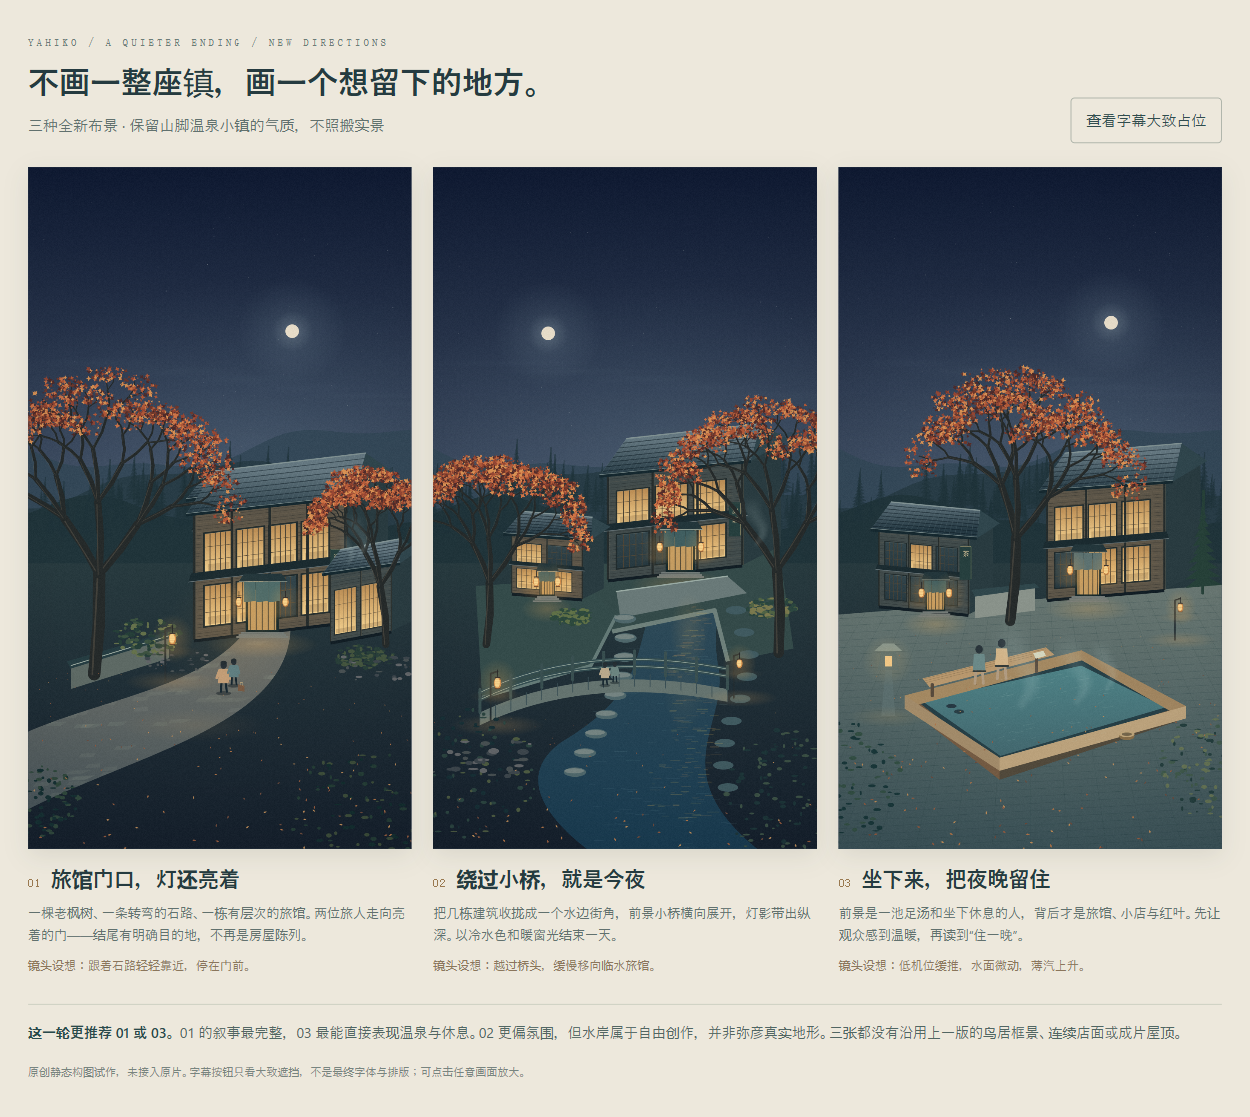
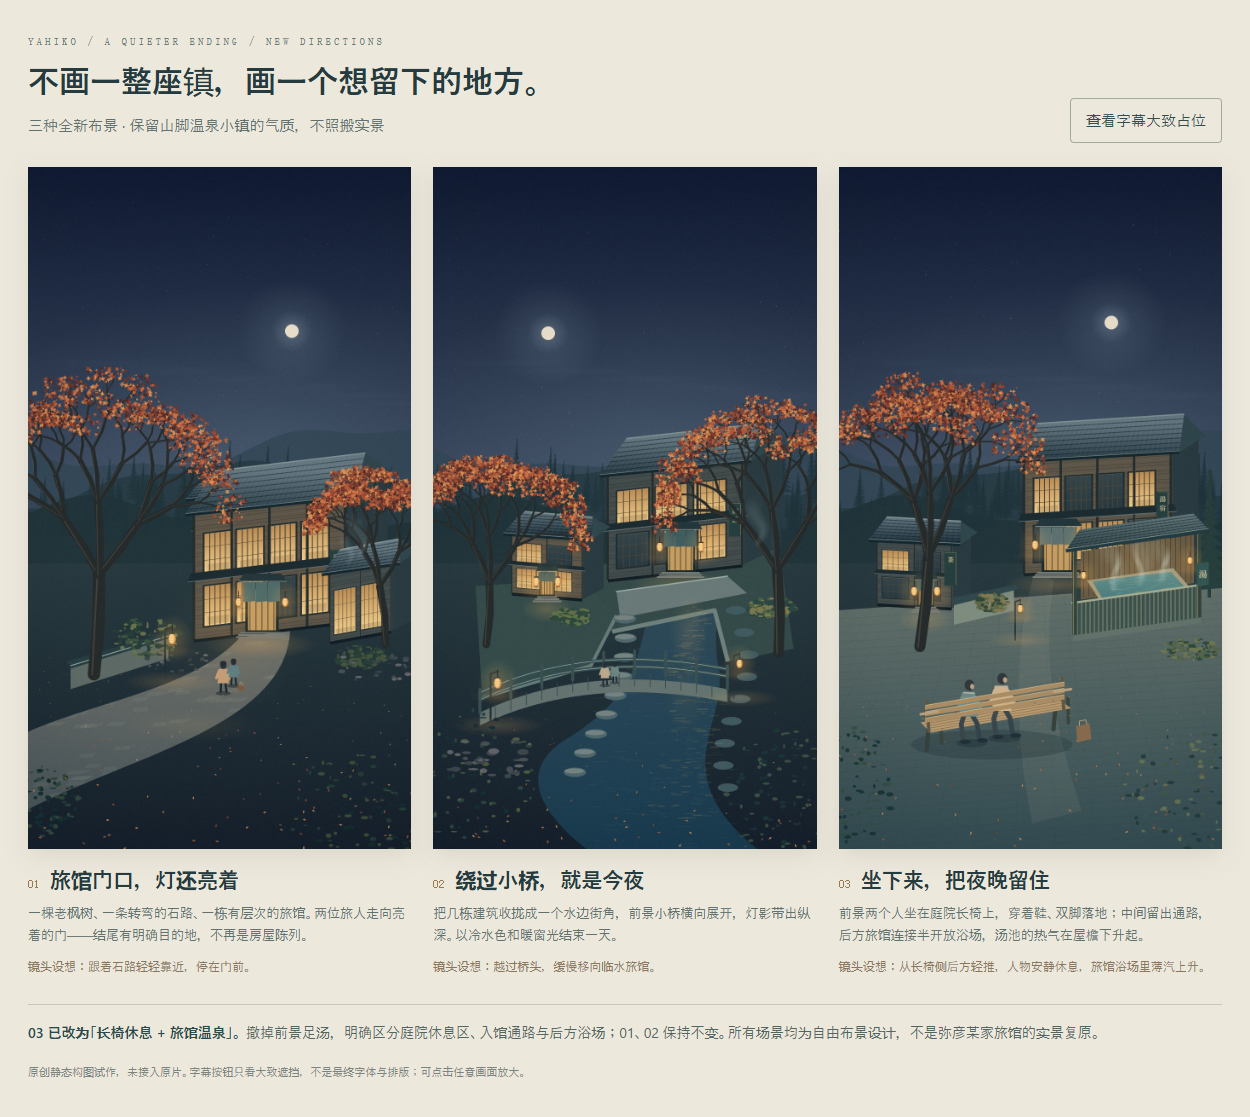
Revise concept 3 with dry garden seating and a steaming bath inside the inn wing

diff --git a/stories/yahiko-town-reimagined/index.html b/stories/yahiko-town-reimagined/index.html
@@ -1,1 +1,1 @@
-<!doctype html><html lang="zh-CN"><head><meta charset="utf-8"><meta name="viewport" content="width=device-width,initial-scale=1"><title>弥彦小镇 · 重新想象最后一晚</title><style>*{box-sizing:border-box}body{margin:0;background:#ede8dc;color:#253b40;font:15px/1.7 system-ui,"Microsoft YaHei",sans-serif}main{max-width:1250px;margin:auto;padding:35px 28px}header{display:flex;justify-content:space-between;align-items:end;gap:22px;margin-bottom:24px}.eyebrow{font:11px monospace;letter-spacing:3px;color:#6c7c78}h1{font-size:31px;font-weight:500;margin:7px 0 4px}p{margin:5px 0;color:#61716e}button{font:inherit;border:1px solid #a2aaa0;border-radius:4px;background:transparent;color:#304d4f;cursor:pointer;padding:9px 15px}button[aria-pressed=true]{background:#304d4f;color:#fff9e9}.grid{display:grid;grid-template-columns:repeat(3,minmax(0,1fr));gap:22px}.art{position:relative;display:block;overflow:hidden;box-shadow:0 7px 24px #20312c19;cursor:zoom-in}canvas{display:block;width:100%;height:auto;aspect-ratio:9/16;background:#172941}.words{display:none;position:absolute;inset:0;pointer-events:none;color:#f8ead1;text-shadow:0 2px 8px #0e1a28}.copy .words{display:block}.words .title{position:absolute;left:7.4%;top:12.4%;font-size:clamp(19px,2.8vw,35px);font-weight:600;letter-spacing:3px}.words .narr{position:absolute;left:9.4%;top:23.7%;font-size:clamp(9px,1.05vw,13px);border-left:2px solid #d5b789;padding-left:6px}.words .end{position:absolute;left:7.4%;top:51.5%;font-size:clamp(12px,1.6vw,20px);line-height:1.6}.words .small{position:absolute;left:9.4%;top:61.3%;font-size:clamp(9px,1vw,12px);color:#f4cb91}h2{font-weight:550;font-size:21px;margin:13px 0 3px}.num{font:12px monospace;color:#9a7950;margin-right:10px}.card p{font-size:13px}.motion{font-size:12px;color:#8b765b;margin-top:9px}.note{border-top:1px solid #c5c9bc;margin-top:28px;padding-top:16px;max-width:100%;font-size:14px;color:#516663}.note strong{color:#294a4b}footer{margin-top:18px;font-size:11px;color:#788580}dialog{border:0;padding:0;background:#112030;max-height:94vh;max-width:96vw}dialog::backdrop{background:#0b1529d9}dialog canvas{height:90vh;width:auto;max-width:90vw;object-fit:contain}dialog button{position:absolute;right:10px;top:10px;border:1px solid #b9c0b9;background:#122733bb;color:#fff;font-size:19px;padding:2px 10px}@media(max-width:760px){main{padding:23px 18px}header{display:block}header button{margin-top:10px}h1{font-size:26px}.grid{grid-template-columns:1fr;gap:28px}.words .title{font-size:36px}.words .narr{font-size:13px}.words .end{font-size:20px}.words .small{font-size:12px}}button:focus-visible,.art:focus-visible{outline:3px solid #b68546;outline-offset:4px}</style></head><body><main><header><div><div class="eyebrow">YAHIKO / A QUIETER ENDING / NEW DIRECTIONS</div><h1>不画一整座镇，画一个想留下的地方。</h1><p>三种全新布景 · 保留山脚温泉小镇的气质，不照搬实景</p></div><button id="copy" aria-pressed="false">查看字幕大致占位</button></header><section class="grid"><article class="card"><div class="art" tabindex="0" role="button" aria-label="放大方案一 旅馆门口"><canvas data-concept="1" aria-label="秋夜的旅馆与弯曲石路，两位旅人走向暖灯下的入口"></canvas></div><h2><span class="num">01</span>旅馆门口，灯还亮着</h2><p>一棵老枫树、一条转弯的石路、一栋有层次的旅馆。两位旅人走向亮着的门——结尾有明确目的地，不再是房屋陈列。</p><div class="motion">镜头设想：跟着石路轻轻靠近，停在门前。</div></article><article class="card"><div class="art" tabindex="0" role="button" aria-label="放大方案二 水边街角"><canvas data-concept="2" aria-label="小桥、水边旅馆与暖灯倒影构成的秋夜街角"></canvas></div><h2><span class="num">02</span>绕过小桥，就是今夜</h2><p>把几栋建筑收拢成一个水边街角，前景小桥横向展开，灯影带出纵深。以冷水色和暖窗光结束一天。</p><div class="motion">镜头设想：越过桥头，缓慢移向临水旅馆。</div></article><article class="card"><div class="art" tabindex="0" role="button" aria-label="放大方案三 足汤庭院"><canvas data-concept="3" aria-label="两位旅人坐在足汤边，庭院后的旅馆与店铺亮着灯"></canvas></div><h2><span class="num">03</span>坐下来，把夜晚留住</h2><p>前景是一池足汤和坐下休息的人，背后才是旅馆、小店与红叶。先让观众感到温暖，再读到“住一晚”。</p><div class="motion">镜头设想：低机位缓推，水面微动，薄汽上升。</div></article></section><div class="note"><strong>这一轮更推荐 01 或 03。</strong> 01 的叙事最完整，03 最能直接表现温泉与休息。02 更偏氛围，但水岸属于自由创作，并非弥彦真实地形。三张都没有沿用上一版的鸟居框景、连续店面或成片屋顶。</div><footer>原创静态构图试作，未接入原片。字幕按钮只看大致遮挡，不是最终字体与排版；可点击任意画面放大。</footer></main><dialog id="zoom"><button aria-label="关闭大图">×</button><canvas id="large"></canvas></dialog><script src="art.js"></script><script>const dialog=document.getElementById('zoom');for(const card of document.querySelectorAll('.art')){const overlay=document.createElement('div');overlay.className='words';overlay.innerHTML='<div class="title">弥彦</div><div class="narr">老旅馆「みのや」，开了 300 多年。</div><div class="end">看完日落和夜红叶，<br>就在神社门前住一晚。</div><div class="small">缆车末班要先查好哦</div>';card.append(overlay);const open=()=>{const c=card.querySelector('canvas'),large=document.getElementById('large');large.width=c.width;large.height=c.height;large.getContext('2d').drawImage(c,0,0);dialog.showModal();};card.onclick=open;card.onkeydown=e=>{if(e.key==='Enter'||e.key===' '){e.preventDefault();open();}};}dialog.querySelector('button').onclick=()=>dialog.close();dialog.onclick=e=>{if(e.target===dialog)dialog.close();};document.getElementById('copy').onclick=e=>{const on=document.body.classList.toggle('copy');e.currentTarget.setAttribute('aria-pressed',on);e.currentTarget.textContent=on?'隐藏字幕占位':'查看字幕大致占位';};</script></body></html>
+<!doctype html><html lang="zh-CN"><head><meta charset="utf-8"><meta name="viewport" content="width=device-width,initial-scale=1"><title>弥彦小镇 · 重新想象最后一晚</title><style>*{box-sizing:border-box}body{margin:0;background:#ede8dc;color:#253b40;font:15px/1.7 system-ui,"Microsoft YaHei",sans-serif}main{max-width:1250px;margin:auto;padding:35px 28px}header{display:flex;justify-content:space-between;align-items:end;gap:22px;margin-bottom:24px}.eyebrow{font:11px monospace;letter-spacing:3px;color:#6c7c78}h1{font-size:31px;font-weight:500;margin:7px 0 4px}p{margin:5px 0;color:#61716e}button{font:inherit;border:1px solid #a2aaa0;border-radius:4px;background:transparent;color:#304d4f;cursor:pointer;padding:9px 15px}button[aria-pressed=true]{background:#304d4f;color:#fff9e9}.grid{display:grid;grid-template-columns:repeat(3,minmax(0,1fr));gap:22px}.art{position:relative;display:block;overflow:hidden;box-shadow:0 7px 24px #20312c19;cursor:zoom-in}canvas{display:block;width:100%;height:auto;aspect-ratio:9/16;background:#172941}.words{display:none;position:absolute;inset:0;pointer-events:none;color:#f8ead1;text-shadow:0 2px 8px #0e1a28}.copy .words{display:block}.words .title{position:absolute;left:7.4%;top:12.4%;font-size:clamp(19px,2.8vw,35px);font-weight:600;letter-spacing:3px}.words .narr{position:absolute;left:9.4%;top:23.7%;font-size:clamp(9px,1.05vw,13px);border-left:2px solid #d5b789;padding-left:6px}.words .end{position:absolute;left:7.4%;top:51.5%;font-size:clamp(12px,1.6vw,20px);line-height:1.6}.words .small{position:absolute;left:9.4%;top:61.3%;font-size:clamp(9px,1vw,12px);color:#f4cb91}h2{font-weight:550;font-size:21px;margin:13px 0 3px}.num{font:12px monospace;color:#9a7950;margin-right:10px}.card p{font-size:13px}.motion{font-size:12px;color:#8b765b;margin-top:9px}.note{border-top:1px solid #c5c9bc;margin-top:28px;padding-top:16px;max-width:100%;font-size:14px;color:#516663}.note strong{color:#294a4b}footer{margin-top:18px;font-size:11px;color:#788580}dialog{border:0;padding:0;background:#112030;max-height:94vh;max-width:96vw}dialog::backdrop{background:#0b1529d9}dialog canvas{height:90vh;width:auto;max-width:90vw;object-fit:contain}dialog button{position:absolute;right:10px;top:10px;border:1px solid #b9c0b9;background:#122733bb;color:#fff;font-size:19px;padding:2px 10px}@media(max-width:760px){main{padding:23px 18px}header{display:block}header button{margin-top:10px}h1{font-size:26px}.grid{grid-template-columns:1fr;gap:28px}.words .title{font-size:36px}.words .narr{font-size:13px}.words .end{font-size:20px}.words .small{font-size:12px}}button:focus-visible,.art:focus-visible{outline:3px solid #b68546;outline-offset:4px}</style></head><body><main><header><div><div class="eyebrow">YAHIKO / A QUIETER ENDING / NEW DIRECTIONS</div><h1>不画一整座镇，画一个想留下的地方。</h1><p>三种全新布景 · 保留山脚温泉小镇的气质，不照搬实景</p></div><button id="copy" aria-pressed="false">查看字幕大致占位</button></header><section class="grid"><article class="card"><div class="art" tabindex="0" role="button" aria-label="放大方案一 旅馆门口"><canvas data-concept="1" aria-label="秋夜的旅馆与弯曲石路，两位旅人走向暖灯下的入口"></canvas></div><h2><span class="num">01</span>旅馆门口，灯还亮着</h2><p>一棵老枫树、一条转弯的石路、一栋有层次的旅馆。两位旅人走向亮着的门——结尾有明确目的地，不再是房屋陈列。</p><div class="motion">镜头设想：跟着石路轻轻靠近，停在门前。</div></article><article class="card"><div class="art" tabindex="0" role="button" aria-label="放大方案二 水边街角"><canvas data-concept="2" aria-label="小桥、水边旅馆与暖灯倒影构成的秋夜街角"></canvas></div><h2><span class="num">02</span>绕过小桥，就是今夜</h2><p>把几栋建筑收拢成一个水边街角，前景小桥横向展开，灯影带出纵深。以冷水色和暖窗光结束一天。</p><div class="motion">镜头设想：越过桥头，缓慢移向临水旅馆。</div></article><article class="card"><div class="art" tabindex="0" role="button" aria-label="放大方案三 长椅与温泉旅馆"><canvas data-concept="3" aria-label="两位旅人坐在干燥庭院的长椅上，后方温泉旅馆的半开放浴场里有汤池与热气"></canvas></div><h2><span class="num">03</span>坐下来，把夜晚留住</h2><p>前景两个人坐在庭院长椅上，穿着鞋、双脚落地；中间留出通路，后方旅馆连接半开放浴场，汤池的热气在屋檐下升起。</p><div class="motion">镜头设想：从长椅侧后方轻推，人物安静休息，旅馆浴场里薄汽上升。</div></article></section><div class="note"><strong>03 已改为「长椅休息 + 旅馆温泉」。</strong> 撤掉前景足汤，明确区分庭院休息区、入馆通路与后方浴场；01、02 保持不变。所有场景均为自由布景设计，不是弥彦某家旅馆的实景复原。</div><footer>原创静态构图试作，未接入原片。字幕按钮只看大致遮挡，不是最终字体与排版；可点击任意画面放大。</footer></main><dialog id="zoom"><button aria-label="关闭大图">×</button><canvas id="large"></canvas></dialog><script src="art.js"></script><script>const dialog=document.getElementById('zoom');for(const card of document.querySelectorAll('.art')){const overlay=document.createElement('div');overlay.className='words';overlay.innerHTML='<div class="title">弥彦</div><div class="narr">老旅馆「みのや」，开了 300 多年。</div><div class="end">看完日落和夜红叶，<br>就在神社门前住一晚。</div><div class="small">缆车末班要先查好哦</div>';card.append(overlay);const open=()=>{const c=card.querySelector('canvas'),large=document.getElementById('large');large.width=c.width;large.height=c.height;large.getContext('2d').drawImage(c,0,0);dialog.showModal();};card.onclick=open;card.onkeydown=e=>{if(e.key==='Enter'||e.key===' '){e.preventDefault();open();}};}dialog.querySelector('button').onclick=()=>dialog.close();dialog.onclick=e=>{if(e.target===dialog)dialog.close();};document.getElementById('copy').onclick=e=>{const on=document.body.classList.toggle('copy');e.currentTarget.setAttribute('aria-pressed',on);e.currentTarget.textContent=on?'隐藏字幕占位':'查看字幕大致占位';};</script></body></html>

diff --git a/stories/yahiko-town-reimagined/art.js b/stories/yahiko-town-reimagined/art.js
@@ -138,38 +138,80 @@ function second(){
  shrubs(65,1430,180,160,['#172f35','#2c4540','#4d5b41']);shrubs(820,1500,150,180,['#1d3538','#3c5145']);stones(110,1390,30,1.2);
  steam(760,883,.7);groundLeaves(1280,65);
 }
-function seated(x,y,s,coat){ellipse(x,y-41*s,7*s,8*s,'#29343a');poly([[x-10*s,y-32*s],[x+10*s,y-32*s],[x+12*s,y],[x-12*s,y]],coat);line([[x-6*s,y],[x-8*s,y+23*s]],'#b09b81',5*s);line([[x+6*s,y],[x+8*s,y+23*s]],'#b09b81',5*s);line([[x-11*s,y],[x+12*s,y]],'#333b39',3*s);}
+function seated(x,y,s,coat){
+ // Bent thighs, clothed shins and shoes touching the paving, not dangling over water.
+ ellipse(x+4*s,y+36*s,23*s,6*s,'rgba(18,32,38,.28)');
+ line([[x-7*s,y-5*s],[x-11*s,y+8*s],[x-8*s,y+33*s]],'#38454b',7*s);
+ line([[x+5*s,y-5*s],[x+12*s,y+7*s],[x+16*s,y+31*s]],'#34434a',7*s);
+ ellipse(x-5*s,y+34*s,8*s,3.3*s,'#202f38');ellipse(x+20*s,y+32*s,8*s,3.3*s,'#202f38');
+ poly([[x-10*s,y-39*s],[x+9*s,y-39*s],[x+14*s,y-3*s],[x-13*s,y-3*s]],coat);
+ line([[x-9*s,y-32*s],[x-15*s,y-15*s],[x-6*s,y-10*s]],coat,6*s);
+ line([[x+9*s,y-31*s],[x+17*s,y-17*s],[x+11*s,y-12*s]],coat,6*s);
+ ellipse(x+1*s,y-49*s,7*s,8*s,'#30383b');ellipse(x+5*s,y-47*s,3*s,4*s,'#bca082');
+ line([[x-7*s,y-38*s],[x+8*s,y-37*s]],'#b9b3a1',2*s);
+}
 function third(){
  sky(3);
- // The ending is about resting, not touring: a small public footbath in a tucked-away courtyard.
- poly([[0,1050],[900,980],[900,1600],[0,1600]],gradient(980,1600,'#687671','#3c5358'));
- for(let i=0;i<35;i++){const y=1060+i*17;line([[0,y],[900,y-50]],'rgba(33,59,62,.24)',1);}
- for(let i=0;i<26;i++){const x=i*45;line([[x,1000],[450+(x-450)*2,1600]],'rgba(33,59,62,.2)',1);}
- house(95,1030,210,185,58,20,{entry:.63,tone:2,bays:3,bright:.48,sign:'茶'});
- house(490,1015,275,260,85,-23,{entry:.35,tone:1,bays:3,bright:.72,curtain:'#5c7170'});
- // Low plaster wall, gate recess and quiet golden maple are the middle-distance hinge.
- poly([[320,1000],[461,986],[461,1041],[320,1059]],'#89928a');poly([[312,992],[461,977],[472,987],[320,1008]],'#30474c');
- maple(403,1065,540,245);pine(855,1000,240,'#264038');
- // The basin is small and visibly a footbath, with a thick timber rim.
- poly([[180,1250],[570,1150],[795,1268],[378,1405]],'#263f46');
- poly([[196,1253],[570,1170],[768,1268],[380,1382]],gradient(1170,1390,'#4e8286','#42666d'));
- poly([[180,1250],[378,1405],[378,1438],[180,1283]],'#735a42');poly([[378,1405],[795,1268],[795,1301],[378,1438]],'#51493b');
- poly([[155,1240],[570,1134],[600,1150],[182,1263]],'#a38861');poly([[570,1134],[816,1265],[795,1286],[570,1157]],'#9f845f');
- poly([[155,1240],[378,1386],[378,1417],[155,1271]],'#a18a69');poly([[378,1386],[816,1265],[816,1294],[378,1417]],'#baa17b');
- for(let i=0;i<55;i++){const y=1190+rand()*160,x=360+rand()*270;line([[x,y],[x+5+rand()*25,y-4]],'rgba(194,218,204,.14)',1);}
- // Bench, two seated travellers, a pair of shoes: the small details explain the scene.
- poly([[197,1200],[487,1127],[507,1145],[214,1221]],'#b7976d');
- for(let j=0;j<3;j++){line([[201,1201+j*5],[487,1130+j*5]],'rgba(72,62,46,.3)',1);}
- ellipse(677,1336,18,9,'#846c48');ellipse(677,1331,18,7,'#bba278');ellipse(677,1331,12,4,'#73654b');
- line([[220,1215],[220,1240]],'#574a3c',8);line([[465,1154],[465,1184]],'#574a3c',8);
- seated(330,1183,1.25,'#6b8988');seated(383,1171,1.3,'#d1b387');
- ellipse(265,1265,12,5,'#273943');ellipse(283,1278,12,5,'#293e45');poly([[457,1141],[481,1135],[487,1147],[463,1154]],'#d3d5be');
- steam(430,1260,1.25);steam(560,1254,1);steam(630,1223,.72);
- // A short old stone lantern belongs to the garden rather than to a city street.
- poly([[100,1288],[133,1288],[125,1181],[110,1181]],'#5b6e6e');poly([[92,1180],[142,1180],[135,1137],[100,1137]],'#52686a');poly([[83,1136],[150,1136],[130,1118],[104,1118]],'#81918a');
- poly([[109,1148],[125,1148],[125,1172],[109,1172]],'#f0c889');glow(116,1158,60,60,'241,190,113',.2);glow(120,1290,100,25,'230,173,94',.13);
- lamp(790,1110,.85);shrubs(870,1410,120,120,['#243e3d','#40594b','#657354']);shrubs(0,1440,150,150,['#193739','#345044']);groundLeaves(1100,150);
+ // Three separate spaces: a dry garden bench, an unobstructed path, and the inn's attached bath wing.
+ poly([[0,1040],[900,975],[900,1600],[0,1600]],gradient(980,1600,'#626f69','#344d53'));
+ for(let i=0;i<32;i++){const y=1060+i*18;line([[0,y],[900,y-55]],'rgba(33,59,62,.17)',1);}
+ for(let i=0;i<24;i++){const x=i*48;line([[x,1000],[450+(x-450)*2,1600]],'rgba(33,59,62,.13)',1);}
+ // A lighter route bends past the seating area toward the main entrance, not through the bath.
+ g.beginPath();g.moveTo(570,1510);g.bezierCurveTo(510,1320,475,1170,505,970);g.lineTo(460,950);g.bezierCurveTo(405,1130,415,1360,455,1540);g.closePath();g.fillStyle='rgba(162,165,143,.13)';g.fill();
+ pine(870,1010,300,'#263e3c');
+ house(90,1025,175,155,45,10,{entry:.65,tone:2,bays:2,bright:.4,sign:'茶'});
+ house(435,955,345,270,65,-22,{entry:.23,tone:1,bays:4,bright:.65,curtain:'#5c7170',sign:'湯宿'});
+ poly([[270,1020],[411,990],[411,1041],[270,1074]],'#7e8c80');poly([[264,1011],[413,980],[424,990],[270,1028]],'#30474c');
+ shrubs(360,1022,40,22,['#30473a','#5b6745','#807952']);
+ // The bath pavilion physically overlaps the inn's ground floor and sits on a raised stone foundation.
+ poly([[550,990],[850,944],[850,1060],[550,1102]],'#293e40');
+ poly([[550,1090],[850,1048],[850,1070],[550,1113]],'#62726b');
+ line([[551,1090],[850,1048]],'#98a493',2);
+ poly([[568,902],[834,863],[834,976],[568,1015]],'#695b43');
+ for(let x=575;x<830;x+=12){const yy=902-(x-568)*.146;line([[x,yy],[x,yy+109]],'rgba(27,33,28,.4)',2);}
+ glow(703,944,137,100,'249,192,107',.18);
+ // A real contained pool is visible inside the pavilion, above the low privacy screen.
+ poly([[583,970],[785,941],[827,989],[617,1024]],'#a79b7c');
+ poly([[595,972],[780,950],[813,986],[620,1014]],gradient(946,1018,'#648f89','#497b7d'));
+ for(let i=0;i<46;i++){const u=rand(),v=rand();const x=595+u*182+v*25,y=972-u*22+v*40;line([[x,y],[x+8+rand()*13,y-1.4]],'rgba(223,223,177,.2)',1);}
+ steam(644,985,.84);steam(703,971,1.04);steam(757,967,.7);
+ // Visible wisps begin at the bath water; the foreground bench never emits vapor.
+ g.save();g.filter='blur(2px)';g.lineCap='round';
+ for(const [x,y,h,sg] of [[647,989,92,1],[707,978,103,-1],[763,966,77,1]]){
+  const vapor=g.createLinearGradient(0,y,0,y-h);vapor.addColorStop(0,'rgba(226,240,229,.09)');vapor.addColorStop(.5,'rgba(235,242,231,.34)');vapor.addColorStop(1,'rgba(230,240,232,0)');
+  g.strokeStyle=vapor;g.lineWidth=12;g.beginPath();g.moveTo(x,y);g.bezierCurveTo(x-18*sg,y-h*.3,x+23*sg,y-h*.55,x+5*sg,y-h);g.stroke();
+ }
+ g.restore();
+ // Front screens keep the bathing area separate from the public courtyard.
+ poly([[550,1025],[850,983],[850,1057],[550,1099]],'#3c514b');
+ for(let x=560;x<848;x+=10){const yy=1025-(x-550)*.14;line([[x,yy],[x,yy+74]],'#778271',2.5);}
+ line([[546,1023],[853,980]],'#a4ab91',5);
+ for(const [x,y] of [[554,1097],[846,1056]]){line([[x,y],[x,y-205]],'#34433a',11);line([[x-3,y],[x-3,y-205]],'#8b8b6a',1.4);}
+ // Roof is painted over the upper steam: the vapor remains in the open bay, never through solid tiles.
+ poly([[533,900],[870,852],[833,813],[565,851]],gradient(813,900,'#63777b','#2d4348'));
+ for(let k=1;k<7;k++){const t=k/7;line([[mix(533,565,t),mix(900,851,t)],[mix(870,833,t),mix(852,813,t)]],'rgba(18,33,36,.55)',2);}
+ for(let k=0;k<28;k++){const t=k/28;line([[mix(533,870,t),mix(900,852,t)],[mix(565,833,t),mix(851,813,t)]],'rgba(165,182,176,.21)',1);}
+ line([[533,900],[870,852]],'#233a40',9);line([[534,896],[869,848]],'#8d9e95',1.6);
+ lantern(575,958,.62);lantern(825,923,.62);
+ poly([[841,930],[869,926],[869,980],[841,984]],'#345653');g.font='20px serif';g.fillStyle='#e8d5a6';g.textAlign='center';g.fillText('湯',855,963);
+ shrubs(826,1132,65,28,['#2f483c','#526447','#6c7550']);
+ maple(190,1125,580,235);
+ // Bench is in the foreground, with dry paving clearly visible between it and the bath.
+ ellipse(359,1355,190,35,'rgba(18,34,39,.22)');
+ for(const [x,y] of [[211,1310],[509,1262]]){line([[x,y],[x-5,y+57]],'#34413c',10);line([[x+29,y-14],[x+30,y+42]],'#39443c',8);}
+ poly([[192,1303],[517,1248],[545,1270],[215,1327]],'#b89a70');
+ for(let k=0;k<4;k++)line([[199+k*5,1307+k*5],[523+k*5,1252+k*5]],'rgba(71,63,46,.45)',1.4);
+ seated(305,1294,1.6,'#68898b');seated(382,1281,1.65,'#cdb28c');
+ // The near-side backrest occludes the lower backs, so the people read as seated on the same bench.
+ for(const [x,y] of [[211,1320],[528,1267]])line([[x,y+4],[x-4,y-68]],'#5c5744',8);
+ for(let k=0;k<3;k++){const y=1263+k*15;poly([[202,y],[530,y-55],[530,y-44],[202,y+11]],'#a78b64');line([[203,y],[529,y-55]],'#d0b484',1.3);}
+ line([[192,1284],[232,1277]],'#bba27d',6);line([[506,1231],[545,1225]],'#bba27d',6);
+ // A small overnight bag reinforces that this is a rest before staying at the inn.
+ poly([[557,1312],[589,1305],[593,1342],[560,1350]],'#866a4b');line([[565,1310],[565,1300],[580,1297],[582,1307]],'#b29b75',2);
+ lamp(414,1110,.82);glow(385,1270,180,36,'222,175,100',.08);
+ shrubs(840,1465,170,140,['#243e3d','#40594b','#657354']);shrubs(0,1450,140,140,['#193739','#345044']);groundLeaves(1115,130);
 }
+
 function render(canvas,id){if(![1,2,3].includes(id))throw Error('Unknown concept');canvas.width=W;canvas.height=H;g=canvas.getContext('2d',{willReadFrequently:true});seed=3400+id*37;g.lineJoin='round';[first,second,third][id-1]();const vign=g.createRadialGradient(470,1030,380,450,900,1100);vign.addColorStop(0,'rgba(9,20,31,0)');vign.addColorStop(1,'rgba(8,17,29,.2)');g.fillStyle=vign;g.fillRect(0,0,W,H);grain();}
 window.renderConcept=render;
 for(const c of document.querySelectorAll('canvas[data-concept]'))render(c,Number(c.dataset.concept));

diff --git a/stories/yahiko-town-reimagined/README.md b/stories/yahiko-town-reimagined/README.md
@@ -8,9 +8,18 @@
 
 1. **旅馆门口，灯还亮着**：弯曲石路与老枫树引导视线，两位旅人走向一栋暖灯旅馆，强调“抵达”。
 2. **绕过小桥，就是今夜**：以几栋临水建筑、小桥和倒影组成安静街角，强调“停留”；水岸为自由设计，不是弥彦真实地形。
-3. **坐下来，把夜晚留住**：足汤与休息的人作为前景，旅馆和小店退到背景，强调“放松”。
+3. **坐下来，把夜晚留住（修订）**：前景两个人坐在庭院长椅上，穿鞋、双脚落地；后方旅馆连接半开放温泉浴场，能看见汤池和上升的热气。
 
-更推荐 1 或 3：1 的片尾叙事清楚，3 最直接传达温泉体验。建筑不对应真实商家；不得把示意旅馆当成「みのや」的实景外观。
+## 第 3 版修订
+
+用户认可总体方向，但指出前景足汤与坐姿不合理，要求改成「两人坐长椅，后面旅馆里有冒热气的温泉」。本次仅重画第 3 版，1、2 不改：
+
+- 删除前景水池与脱在池边的鞋；改成有座板、靠背、扶手和落地支撑的庭院长椅。
+- 两位旅人坐在同一张长椅上，穿着鞋，脚下是铺地；小旅行包放在长椅旁。
+- 庭院中间保留通往旅馆入口的干燥通路，人与汤池之间有明确距离。
+- 汤池移到旅馆附属的半开放浴场，补上地基、围挡、柱梁和屋檐；热气只从后方水面升起，屋顶遮住上方雾气，不穿过瓦片。
+- 保留月夜、红叶和暖灯的气氛；不是某家旅馆的实景复原，不能当成「みのや」的真实外观。
+
 
 ## 文件
 
